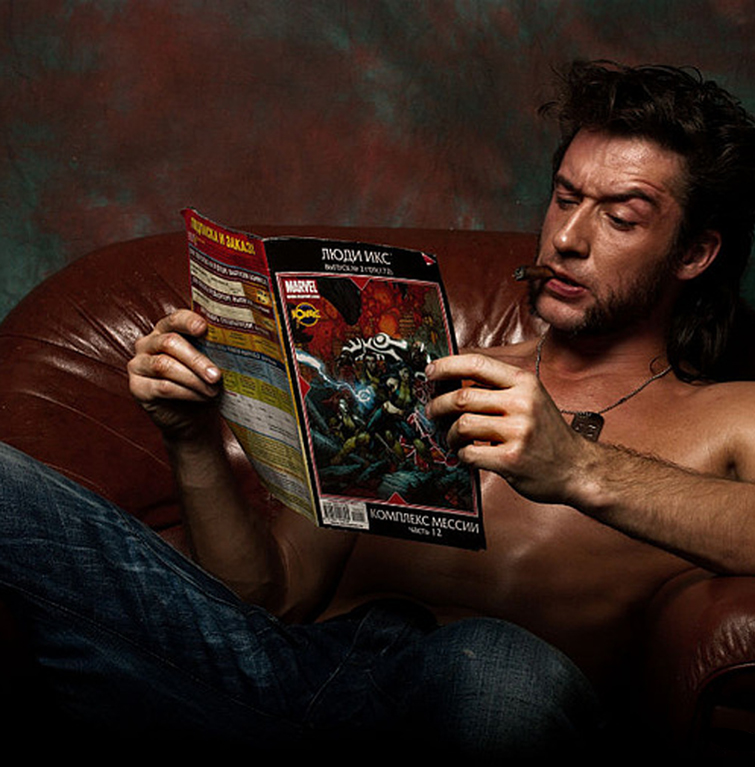
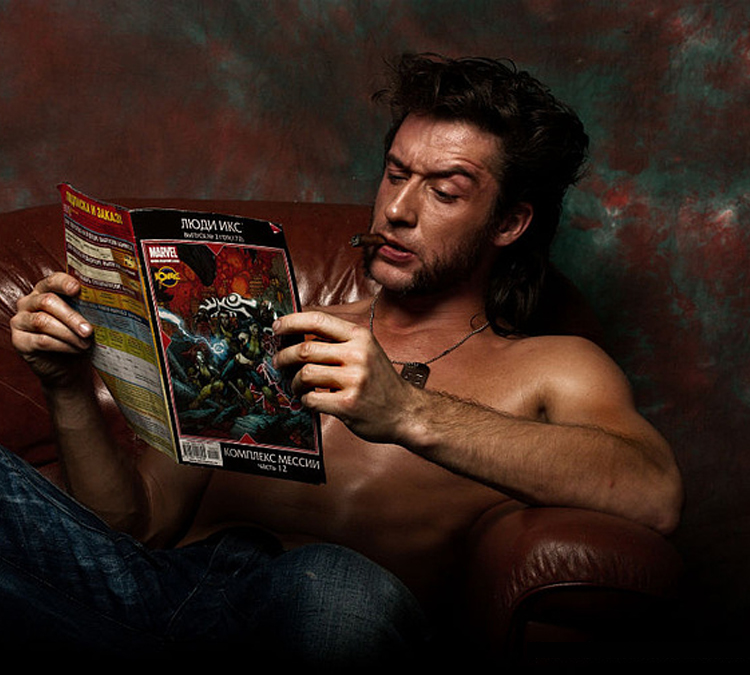
Toegevoegd home slider met controls, tot aan randen

diff --git a/cosplayguide/public/css/style.css b/cosplayguide/public/css/style.css
@@ -1562,15 +1562,12 @@ label[for=thumbnail_url] {
 .home .header .col-4 {
   margin-right: 8%; }
   .home .header .col-4 p {
-    margin-top: 4rem; }
-
-.home .titel h1 {
-  margin-top: 1.5rem; }
+    margin-top: 2rem; }
 
 .join-knop {
   font-weight: 700;
   font-family: 'Titillium Web', sans-serif;
-  margin-top: 2.75rem;
+  margin-top: 1.75rem;
   margin-bottom: 2.75rem; }
   .join-knop a {
     text-decoration: none;
@@ -1589,8 +1586,42 @@ label[for=thumbnail_url] {
     margin-left: 12px; }
 
 /* Rechterkant met slider */
-.home .header .col-7 img {
-  margin-top: -175px; }
+#carouselHome {
+  margin-top: -175px;
+  width: 750px;
+  height: 675px; }
+  #carouselHome .carousel-item {
+    background-color: rgba(0, 0, 0, 0); }
+    #carouselHome .carousel-item img {
+      height: auto; }
+    #carouselHome .carousel-item .carousel-caption {
+      bottom: 25px;
+      right: auto;
+      left: 100px;
+      font-weight: 600; }
+      #carouselHome .carousel-item .carousel-caption p {
+        display: inline;
+        color: white; }
+      #carouselHome .carousel-item .carousel-caption a {
+        margin-left: 70px;
+        text-decoration: none;
+        color: white;
+        font-family: 'Titilium Web', sans-serif; }
+  #carouselHome .carousel-control-prev, #carouselHome .carousel-control-next {
+    top: 610px;
+    background-color: rgba(0, 0, 0, 0.15);
+    box-shadow: 0 0 18px 5px rgba(0, 0, 0, 0.15);
+    opacity: 0.75; }
+    #carouselHome .carousel-control-prev:hover, #carouselHome .carousel-control-next:hover {
+      opacity: 1; }
+  #carouselHome .carousel-control-prev {
+    left: 50px; }
+    #carouselHome .carousel-control-prev .carousel-control-prev-icon {
+      background-image: url("/img/iconen/pijltje-links-wit.png"); }
+  #carouselHome .carousel-control-next {
+    left: 95px; }
+    #carouselHome .carousel-control-next .carousel-control-next-icon {
+      background-image: url("/img/iconen/pijltje-rechts-wit.png"); }
 
 body {
   font-family: 'Open Sans', sans-serif;
@@ -1778,7 +1809,7 @@ a.profile-link {
 .footer-background, .footer-background-earth {
   width: 100%;
   position: relative;
-  z-index: -1;
+  z-index: -2;
   margin-top: -100px;
   background-color: #302e2f; }
 

diff --git a/cosplayguide/public/css/partials/home.scss b/cosplayguide/public/css/partials/home.scss
@@ -20,19 +20,16 @@
   margin-right: 8%;
 
   p {
-    margin-top: 4rem;
+    margin-top: 2rem;
   }
 }
 
-.home .titel h1 {
-  margin-top: 1.5rem;
-}
 
 
 .join-knop  {
   font-weight: 700;
   font-family: 'Titillium Web', sans-serif;
-  margin-top: 2.75rem;
+  margin-top: 1.75rem;
   margin-bottom: 2.75rem;
 
 
@@ -67,6 +64,69 @@
 
 
 /* Rechterkant met slider */
-.home .header .col-7 img {
+
+#carouselHome {
   margin-top: -175px;
+  width: 750px;
+  height: 675px;
+
+  .carousel-item {
+    background-color: rgba(0,0,0,0);
+
+    img {
+      height: auto;
+    }
+
+    .carousel-caption {
+      bottom: 25px;
+      right: auto;
+      left: 100px;
+      font-weight: 600;
+
+       p {
+        display: inline;
+        color: white;
+      }
+
+      a {
+        margin-left: 70px;
+        text-decoration: none;
+        color: white;
+        font-family: 'Titilium Web', sans-serif;
+
+      }
+    }
+  }
+
+  .carousel-control-prev, .carousel-control-next {
+    top: 610px;
+    background-color: rgba(black, 0.15);
+    box-shadow: 0 0 18px 5px rgba(black, 0.15);
+    opacity: 0.75;
+
+    &:hover {
+      opacity: 1;
+    }
+  }
+
+  .carousel-control-prev {
+    left: 50px;
+
+    .carousel-control-prev-icon {
+      background-image: url('/img/iconen/pijltje-links-wit.png');
+    }
+  }
+
+
+  .carousel-control-next {
+    left: 95px;
+
+    .carousel-control-next-icon {
+      background-image: url('/img/iconen/pijltje-rechts-wit.png');
+    }
+  }
+
+
+
+
 }

diff --git a/cosplayguide/public/css/style.scss b/cosplayguide/public/css/style.scss
@@ -324,7 +324,7 @@ a.profile-link  {
 .footer-background, .footer-background-earth {
   width: 100%;
   position: relative;
-  z-index: -1;
+  z-index: -2;
   margin-top: -100px;
   background-color: #302e2f;
 }

diff --git a/cosplayguide/resources/views/staticpages/index.blade.php b/cosplayguide/resources/views/staticpages/index.blade.php
@@ -32,13 +32,72 @@
 
       </div>
 
-      
+
 
       <div class="col-7">
-        <img src="/img/howling-banshee.jpg" alt="slider">
+
+        <div id="carouselHome" class="carousel slide" data-ride="carousel">
+          <div class="carousel-inner">
+
+
+
+            <div class="carousel-item active">
+
+              <img class="d-block" src="/img/howling-banshee.jpg" alt="Foto Howling Banshee cosplay door Arga Lifestream">
+              <div class="carousel-caption d-none d-md-block">
+                <p>1 of 3</p>
+                <a href="#">HOWLING BANSHEE</a>
+              </div>
+
+
+            </div>
+
+
+            <div class="carousel-item">
+
+              <img class="d-block" src="/img/night-elf.jpg" alt="Foto Night Elf cosplay door Arga Lifestream">
+              <div class="carousel-caption d-none d-md-block">
+                <p>2 of 3</p>
+                <a href="#">NIGHT ELF</a>
+              </div>
+
+
+            </div>
+
+
+            <div class="carousel-item">
+
+              <img class="d-block" src="/img/wolverine.jpg" alt="Foto Wolverine cosplay">
+              <div class="carousel-caption d-none d-md-block">
+                <p>3 of 3</p>
+                <a href="#">WOLVERINE</a>
+              </div>
+
+
+            </div>
+
+
+
+          </div>
+
+          <a class="carousel-control-prev progress" href="#carouselHome" role="button" data-slide="prev">
+            <span class="carousel-control-prev-icon" aria-hidden="true"></span>
+            <span class="sr-only">Previous</span>
+          </a>
+          <a class="carousel-control-next progress" href="#carouselHome" role="button" data-slide="next">
+            <span class="carousel-control-next-icon" aria-hidden="true"></span>
+            <span class="sr-only">Next</span>
+          </a>
+
+        </div>
+
       </div>
 
     </div>
+
+
+
+
 
 
   </div>
